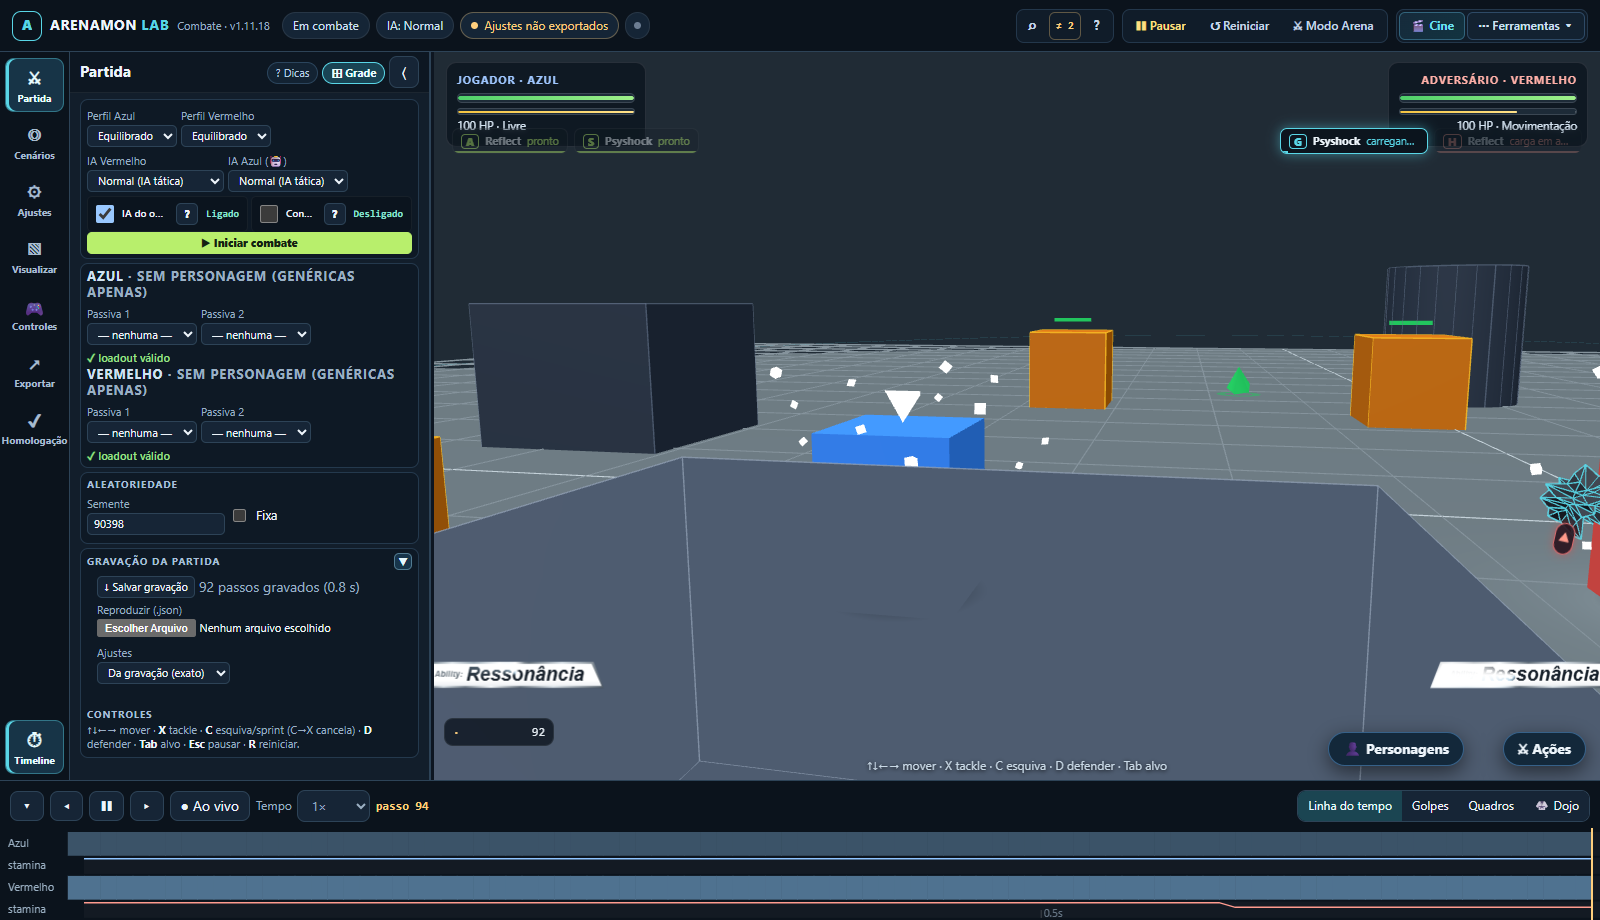
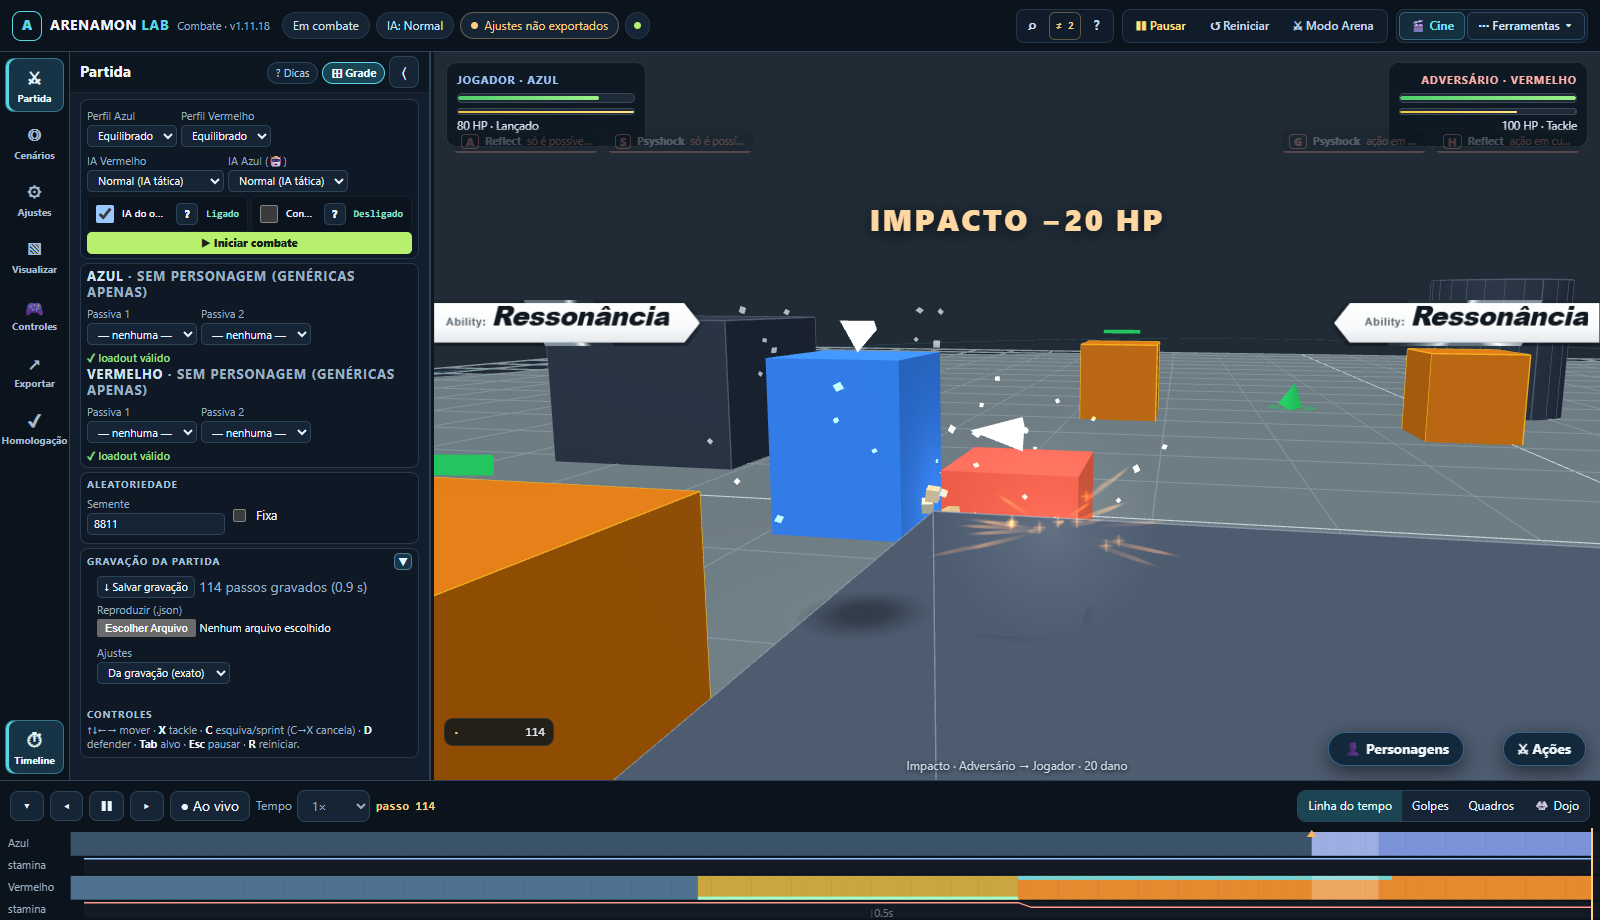
Unifica avisos visuais de habilidades passivas

diff --git a/prototypes/combat-lab/src/styles.css b/prototypes/combat-lab/src/styles.css
@@ -101,20 +101,20 @@ pre.diff{max-height:240px;overflow:auto;font-size:11px;background:#0b1118;paddin
 .chip-variant b{color:#8de4d1}.chip-variant button{min-height:20px!important;padding:0 5px!important;font-size:10px}
 .variants select{width:100%;font-size:11px;min-height:26px}.variants tr.playing td:first-child{color:var(--lime);font-weight:700}
 #vfx-flash{position:absolute;inset:0;pointer-events:none;opacity:0;mix-blend-mode:screen;z-index:3}
-.ability-banner{--side:-1;position:absolute;left:0;bottom:92px;width:min(170px,15%);height:26px;z-index:7;pointer-events:none;overflow:hidden;opacity:0;clip-path:polygon(0 0,94% 0,100% 100%,0 100%);filter:drop-shadow(0 2px 3px #0008);background:linear-gradient(110deg,#4d5964,#d8e0e6 12%,#737f8a 24%,#f8fbfd 38%,#65717c 54%,#dce4ea 72%,#4a5661);transform-origin:left center}
-.ability-banner.right{--side:1;left:auto;right:0;clip-path:polygon(6% 0,100% 0,100% 100%,0 100%);transform-origin:right center}
-.ability-banner-inner{position:absolute;inset:2px 2px 2px 0;display:flex;align-items:center;gap:3px;padding:0 8px 0 4px;background:linear-gradient(#fff,#fff 73%,#eceff2);clip-path:polygon(0 0,94% 0,100% 100%,0 100%);color:#17202a;font:italic 800 calc(13px * var(--ability-text-scale,1))/.95 Inter,Arial,sans-serif;white-space:nowrap}
-.ability-banner.right .ability-banner-inner{inset:2px 0 2px 2px;justify-content:flex-end;padding:0 4px 0 8px;clip-path:polygon(6% 0,100% 0,100% 100%,0 100%)}
-.ability-banner span{flex:none;color:#59636c;font-size:.42em;font-weight:650;letter-spacing:.01em}.ability-banner strong{font:inherit;min-width:0;overflow:hidden;text-overflow:ellipsis}
+.ability-banner{--side:-1;position:absolute;left:0;top:34%;width:clamp(210px,22vw,270px);height:46px;z-index:7;pointer-events:none;overflow:hidden;opacity:0;isolation:isolate;clip-path:polygon(0 0,94% 0,100% 50%,94% 100%,0 100%);filter:drop-shadow(0 5px 8px #0009);transform-origin:left center}
+.ability-banner.right{--side:1;left:auto;right:0;clip-path:polygon(6% 0,100% 0,100% 100%,6% 100%,0 50%);transform-origin:right center}
+.ability-banner::before{content:'';position:absolute;inset:0;z-index:0;background:linear-gradient(110deg,#26313a 0%,#8b99a3 10%,#f7fbff 18%,#66747f 29%,#dbe4ea 42%,#4b5862 55%,#fff 68%,#77858f 80%,#252f37 100%);background-size:240% 100%}
+.ability-banner-inner{position:absolute;z-index:1;inset:3px 4px 3px 0;display:flex;align-items:baseline;gap:5px;padding:0 16px 0 12px;background:linear-gradient(180deg,#fff 0%,#f8fafb 60%,#e5e9ec 100%);clip-path:polygon(0 0,94% 0,100% 50%,94% 100%,0 100%);color:#17202a;white-space:nowrap;box-shadow:inset 0 1px #fff,inset 0 -1px #aeb8bf}
+.ability-banner.right .ability-banner-inner{inset:3px 0 3px 4px;justify-content:flex-end;padding:0 12px 0 16px;clip-path:polygon(6% 0,100% 0,100% 100%,6% 100%,0 50%)}
+.ability-banner span{flex:none;color:#5a6670;font:750 11px/1 Inter,Arial,sans-serif;letter-spacing:.035em}.ability-banner strong{min-width:0;overflow:hidden;text-overflow:ellipsis;color:#101820;font:italic 850 calc(18px * var(--ability-text-scale,1))/1 Inter,Arial,sans-serif;letter-spacing:-.015em;text-shadow:0 1px #fff}
 .ability-banner.show{animation:ability-slide 2.3s cubic-bezier(.18,.86,.2,1) both}
 @keyframes ability-slide{0%{opacity:0;transform:translateX(calc(var(--side)*112%)) rotateY(calc(var(--side)*-34deg)) scale(.9)}12%{opacity:1;transform:translateX(calc(var(--side)*2%)) rotateY(calc(var(--side)*2deg)) scale(1.02)}20%,78%{opacity:1;transform:none}100%{opacity:0;transform:translateX(calc(var(--side)*112%)) rotateY(calc(var(--side)*-28deg)) scale(.94)}}
-.ability-banner::after{content:'';position:absolute;inset:0;z-index:2;pointer-events:none;mix-blend-mode:screen}
-.stage[data-ability-border=sweep] .ability-banner::after{background:linear-gradient(110deg,transparent 35%,#fff0 42%,#fff 49%,#bfe8ff 52%,transparent 61%);background-size:250% 100%;animation:ability-metal-sweep 1.2s linear infinite}
-.stage[data-ability-border=pulse] .ability-banner::after{background:linear-gradient(135deg,#9ec5dd,#fff,#6e8799);animation:ability-metal-pulse 1.35s ease-in-out infinite}
-.stage[data-ability-border=chase] .ability-banner::after{inset:-420% -20%;background:conic-gradient(from 0deg,transparent 0 225deg,#b8d6e9 275deg,#fff 310deg,transparent 350deg);animation:ability-metal-chase 2.4s linear infinite}
-.ability-banner.right::after{animation-direction:reverse!important}@keyframes ability-metal-sweep{from{background-position:180% 0}to{background-position:-80% 0}}@keyframes ability-metal-pulse{0%,100%{opacity:.06}50%{opacity:.8}}@keyframes ability-metal-chase{to{transform:rotate(360deg)}}
-@media(max-width:720px){.ability-banner{bottom:76px;width:min(140px,15%);height:25px}.ability-banner-inner{gap:2px;padding:0 6px 0 3px;font-size:calc(10.5px * var(--ability-text-scale,1))}.ability-banner.right .ability-banner-inner{padding:0 3px 0 6px}.ability-banner span{font-size:.38em}}
-@media(prefers-reduced-motion:reduce){.ability-banner.show{animation:ability-banner-fade 2.3s ease both}.ability-banner::after{animation:none!important}@keyframes ability-banner-fade{0%,100%{opacity:0}10%,82%{opacity:1}}}
+.stage[data-ability-border=sweep] .ability-banner::before{animation:ability-metal-sweep 1.25s linear infinite}
+.stage[data-ability-border=pulse] .ability-banner::before{animation:ability-metal-pulse 1.35s ease-in-out infinite}
+.stage[data-ability-border=chase] .ability-banner::before{background:conic-gradient(from 0deg at 50% 50%,#26313a 0 19%,#f8fdff 23%,#82929e 28% 48%,#fff 52%,#63727d 58% 78%,#dce9f0 82%,#26313a 88%);animation:ability-metal-chase 2.4s linear infinite}
+.ability-banner.right::before{animation-direction:reverse!important}@keyframes ability-metal-sweep{from{background-position:180% 0}to{background-position:-80% 0}}@keyframes ability-metal-pulse{0%,100%{filter:brightness(.72)}50%{filter:brightness(1.45)}}@keyframes ability-metal-chase{to{transform:rotate(360deg) scale(3)}}
+@media(max-width:720px){.ability-banner{width:clamp(190px,38vw,220px);height:42px}.ability-banner-inner{gap:4px;padding-left:10px}.ability-banner.right .ability-banner-inner{padding-right:10px}.ability-banner span{font-size:10px}.ability-banner strong{font-size:calc(16px * var(--ability-text-scale,1))}}
+@media(prefers-reduced-motion:reduce){.ability-banner.show{animation:ability-banner-fade 2.3s ease both}.ability-banner::before{animation:none!important}@keyframes ability-banner-fade{0%,100%{opacity:0}10%,82%{opacity:1}}}
 /* Barras do HUD atual: o medidor nativo do Chromium quase some com 5 px; agora com aparência própria. */
 .fighter meter{appearance:none;-webkit-appearance:none;height:10px;border-radius:5px;background:#1d2b38;border:1px solid #ffffff22;overflow:hidden}
 .fighter meter.sta{height:7px;margin-top:5px}
@@ -242,13 +242,6 @@ pre.diff{max-height:240px;overflow:auto;font-size:11px;background:#0b1118;paddin
 #passives-hud .mvp-row{position:static}
 .pvh-toast{position:absolute;left:50%;top:18%;transform:translateX(-50%);background:#ffffffee;color:#0b131c;font:800 15px/1.2 Inter,system-ui,sans-serif;padding:8px 18px;border-radius:999px;box-shadow:0 0 18px #ffffff88;animation:pvh-toast-in .25s ease}
 @keyframes pvh-toast-in{from{opacity:0;transform:translateX(-50%) translateY(-8px)}to{opacity:1;transform:translateX(-50%) translateY(0)}}
-#ability-notices{position:absolute;inset:0;z-index:6;pointer-events:none;overflow:hidden}
-#ability-notices .ability-notice{position:absolute;top:34%;background:#fffffff0;color:#0b131c;font:800 15px/1.2 Inter,system-ui,sans-serif;padding:9px 18px;border-radius:12px;box-shadow:0 2px 14px #0008;white-space:nowrap;transition:transform .35s cubic-bezier(.2,.8,.25,1),opacity .3s ease;opacity:0}
-#ability-notices .ability-notice.side-0{left:0;border-left:4px solid #4aa3ff;transform:translateX(-110%)}
-#ability-notices .ability-notice.side-1{right:0;border-right:4px solid #ff6b6b;transform:translateX(110%)}
-#ability-notices .ability-notice.in{transform:translateX(0);opacity:1}
-#ability-notices .ability-notice.side-0.out{transform:translateX(-110%);opacity:0}
-#ability-notices .ability-notice.side-1.out{transform:translateX(110%);opacity:0}
 .passives-panel .passives-slot h3{font:700 12.5px/1.3 Inter,system-ui,sans-serif;color:#cfe2f2;margin:8px 0 4px}
 .passives-panel .passives-slot p{margin:4px 0 0;font:600 11px/1.3 Inter,system-ui,sans-serif}
 .passives-panel p.ok{color:#9fe08a}

diff --git a/prototypes/combat-lab/src/main.js b/prototypes/combat-lab/src/main.js
@@ -37,8 +37,7 @@ import {MovesHud} from './ui/moves-hud.js';
 import {createPassivesPanel} from './ui/passives-panel.js';
 import {createQuickMenu} from './ui/menu-quick.js';
 import {PassivesHud} from './ui/passives-hud.js';
-import {PassiveVfx} from './view/passive-vfx.js';
-import {AbilityNotices} from './ui/ability-notices.js';
+import {PASSIVE_BY_ID} from './sim/passives.js';
 import {createPerfPanel} from './ui/perf-panel.js';
 import {createAiEvalPanel} from './ui/ai-eval-panel.js';
 import {createProjectFiles} from './ui/project-files.js';
@@ -111,7 +110,7 @@ async function triggerWarmup({force = false} = {}) {
     }
   }
 }
-function resetViewAndLogs() {view.reset(game.fighters[0]);recorder.clear();replay.clear();pushReplay();dock.invalidate();clock.reset();passiveVfx.clear();abilityNotices.clear();}
+function resetViewAndLogs() {view.reset(game.fighters[0]);recorder.clear();replay.clear();pushReplay();dock.invalidate();clock.reset();}
 function startMatch({playback = null} = {}) {
   if (ui.training) {training.end();}
   abortScenario();restorePlaybackValues();ui.playback = playback;
@@ -651,17 +650,14 @@ $('passives-card')?.append(passivesPanel.root);
 // Seleção Rápida do menu: dois blocos (personagem/moves/abilities + prévia 3D). Workspace anexado no boot.
 const quickMenu = createQuickMenu({$, game, ui, passivesPanel});
 const passivesHud = new PassivesHud($('passives-hud'));
-const passiveVfx = new PassiveVfx(view.scene);
-const abilityNotices = new AbilityNotices();
-/** Ativações do passo: som, notificação de HUD "Ability: NOME" (entrada pela esquerda do jogador / direita do
- * oponente) e VFX da variante configurada (A/B/C). */
+/** Ativações reais do passo: som, placa metálica "Ability: NOME" e sparkles brancos presos ao lutador. */
 function passiveFeedback(events) {
   for (const e of events || []) {
-    if (e.result !== 'passiveActivated') continue;
+    if (e.result !== 'passiveActivated' || e.attacker == null) continue;
     soundFx.playPassive(C.vfx?.passive?.variant ?? 0);
+    const kind = e.attacker === 1 ? C.display.passive.enemyAbility : C.display.passive.playerAbility;
+    view.passives.activate(e.attacker, kind, PASSIVE_BY_ID[e.passive]?.nome ?? e.passive);
   }
-  passiveVfx.onEvents(events, game.fighters);
-  abilityNotices.onEvents(events);
 }
 /** Avisos discretos dos Moves (M28.6): falha de execução com o motivo e a devolução da stamina. */
 const seenNotices = new WeakSet(), MOVE_FAIL = {semEspaco: 'sem espaço — stamina devolvida, sem recarga', limiteDeEntidades: 'limite de entidades do mundo — stamina devolvida', semCarga: 'sem carga', effectMissing: 'efeito não registrado'};
@@ -980,7 +976,7 @@ function frame(now) {
   const back = replay.length ? (replay.length - 1 - replay.cursor) : 0;
   hud.render(game, ui.fps, {locked: input.locked, paused: ui.paused && game.phase !== 'menu', replay: back ? `−${back} passos (${(back * C.test.step * 1000).toFixed(0)} ms) · ▶ retoma daqui` : 'último passo · , e . avançam/voltam', playerAI: !!C.extras.toggles.enablePlayerAI});
   movesHud.render(game);moveNotices();
-  passivesHud.render(game, C.extras.toggles.enablePassives !== 0);passiveVfx.update(live ? dt * clock.timeScale : 0);
+  passivesHud.render(game, C.extras.toggles.enablePassives !== 0);
   $('rp-readout').textContent = `passo ${game.tick}${back ? ` · −${(back * C.test.step).toFixed(2)} s` : ''}${clock.timeScale !== 1 ? ` · ${clock.timeScale}×` : ''}`;
   dock.render();updateDojoAdvantageBadge();hudProposals.render(game, live ? dt * clock.timeScale : 0);windowsOverlay.update();perfPanel.frame({frameMs: dt * 1000, simMs, steps});cinePanel?.updateBadge?.();updateOffscreenArrow(canvas.clientWidth, canvas.clientHeight);updateActionHintPill();if (game.phase === 'result' && !lastKoHandled) checkKoTrigger();
   if ((uiTimer += dt) > .1) {uiTimer = 0;renderLive();renderHistory();renderCharacterLive();renderRecStatus();visualPanel.live();diagnostics.live();perfPanel.live();}

diff --git a/prototypes/combat-lab/src/ui/tuning.js b/prototypes/combat-lab/src/ui/tuning.js
@@ -146,9 +146,9 @@ const same = (a, b) => Math.abs(a - b) <= 1e-9 * Math.max(1, Math.abs(a), Math.a
 export const EXTRA_SECTIONS = [['Smear de Membros', 'extras.visual.smear', null], ['Squash & Stretch do Tackle', 'extras.visual.squashStretch', null], ['Sprint (C mantido)', 'actions.sprint', null], ['VFX · geral', 'vfx.master', null], ['VFX 3D · geral', 'vfx.solid', null], ...SOLID_FAMILIES.map(f => [`VFX 3D · ${f.label}`, `vfx.${f.key}`, null]),
   ...VFX_TYPES.map(([type, label]) => [`VFX · ${label}`, `vfx.${type}`, null]), ['Tremor · geral', 'vfx.shakeMaster', null], ...SHAKE_EVENTS.map(([key, label]) => [`Tremor · ${label}`, `vfx.${key}`, null]),
   ['Teclas do vermelho (controle manual)', 'extras.bindings2', null], ['VFX · Laser da Arena (BeamRenderer)', 'vfx.laser', null], ['Sombras', 'display.shadow', null], ['HUD', 'display.hud', null], ['Habilidades passivas', 'display.passive', null], ['Altura visual', 'display.grounding', null], ['Indicador da janela C → X', 'display.cancelRing', null], ['Animação: transições', 'display.animation', null], ['Diagnóstico de comandos', 'display.diagnostics', null], ['Janelas de combate', 'display.windows', null], ['Medidor de desempenho', 'display.perf', null],
-  // Passivas (catálogo experimental, §29): uma seção por passiva + VFX de ativação (A/B/C).
+  // Passivas (catálogo experimental, §29): uma seção por passiva. A apresentação unificada fica em Visualizar.
   ...PASSIVES.map(p => [`Passivas · ${p.nome}${p.species ? ' (' + p.species + ')' : ''}`, `passivas.${p.id}`, null]),
-  ['Passivas · gerais (detecção)', 'passivas.globals', null], ['VFX · Passivas (ativação A/B/C)', 'vfx.passive', null], ['VFX · three.quarks (experimental)', 'vfx.quarks', null]];
+  ['Passivas · gerais (detecção)', 'passivas.globals', null], ['VFX · three.quarks (experimental)', 'vfx.quarks', null]];
 /** Parâmetros mostrados em outras abas (sem duplicar controles no Ajustes). */
 const ELSEWHERE = new Set(['extras.toggles.enableEnemyAI', 'extras.toggles.enemyManual', 'extras.visual.shadowMin', 'extras.visual.shadowHeightFade']);
 export function createTuning({apply}) {

diff --git a/prototypes/combat-lab/src/view/passive-abilities.js b/prototypes/combat-lab/src/view/passive-abilities.js
@@ -56,11 +56,10 @@ class FighterPassive {
 }
 
 export class PassiveAbilitySystem {
-  constructor(scene, {notify = () => {}} = {}) {this.scene = scene;this.notify = notify;this.fighters = [new FighterPassive(scene, 0), new FighterPassive(scene, 1)];this.started = false;}
-  reset() {this.started = false;for (const f of this.fighters) f.reset();}
-  activate(id, kind) {const fx = this.fighters[id];if (!fx || !C.display.passive.enabled) return;fx.activate(kind);this.notify(id, PASSIVE_ABILITIES[fx.kind].name);}
+  constructor(scene, {notify = () => {}} = {}) {this.scene = scene;this.notify = notify;this.fighters = [new FighterPassive(scene, 0), new FighterPassive(scene, 1)];}
+  reset() {for (const f of this.fighters) f.reset();}
+  activate(id, kind, name = null) {const fx = this.fighters[id];if (!fx || !C.display.passive.enabled) return;fx.activate(kind);this.notify(id, name || PASSIVE_ABILITIES[fx.kind].name);}
   update(fighters, dt, {characters = [], visible = true} = {}) {
-    if (!this.started && C.display.passive.enabled) {this.started = true;this.activate(0, C.display.passive.playerAbility);this.activate(1, C.display.passive.enemyAbility);}
     for (const f of fighters) this.fighters[f.id]?.update(f, characters[f.id], dt, visible && !!C.display.passive.enabled);
   }
   dispose() {for (const f of this.fighters) f.dispose(this.scene);}

diff --git a/prototypes/combat-lab/src/sim/config.js b/prototypes/combat-lab/src/sim/config.js
@@ -216,8 +216,7 @@ export function vfxDefaults() {
     solidReflect: {...solidFam(), color: 0x73caff},
     shakeMaster: {enabled: 1},
     shakeGuard: shake(.05, .16, 0), shakeHit: shake(.12, .28, 0), shakeGround: shake(.09, .3, 1), shakePerfect: shake(.1, .3, 2), shakeClash: shake(.18, .42, 1),
-    // VFX de ativação de passivas (§16): 0,60 s, círculos brancos 3D + sparkles; variant 0/1/2 = A/B/C
-    // (Orbital Halo / Celestial Intersections / Luminous Resonance). Só aparência; não altera regras nem cooldowns.
+    // Compatibilidade de presets antigos de VFX de passivas. A apresentação ativa usa display.passive.
     passive: {enabled: 1, variant: 0, intensity: 1, size: 1, opacity: 1, duration: 1, sparkles: 1},
     // Camada experimental three.quarks (Fase 2 da integração open source): efeitos A (carga),
     // B (impacto), C (pouso) e footstool por partículas GPU, A/B comparativo com o legado.

diff --git a/prototypes/combat-lab/src/template.html b/prototypes/combat-lab/src/template.html
@@ -329,7 +329,6 @@
     <div class="fighter enemy"><strong>ADVERSÁRIO · VERMELHO</strong><meter id="hp1" min="0" max="1" value="1" aria-label="Vida adversário"></meter><meter id="stamina1" class="sta" min="0" max="1" value="1" aria-label="Stamina adversário"></meter><span id="state1"></span><div id="stages1" class="stages-indicator"></div></div>
    </header>
    <div id="impact-notice" aria-live="polite" hidden></div>
-   <div id="ability-notices" aria-live="polite"></div>
    <div id="dojo-advantage-badge" hidden aria-live="polite"></div>
    <div class="zen-badge"><kbd>F2</kbd> Modo Arena Ativo · Pressione F2 para voltar ao Lab</div>
    <div id="ab-badge" hidden aria-live="polite"></div>

diff --git a/docs/VFX_HABILIDADES_PASSIVAS.md b/docs/VFX_HABILIDADES_PASSIVAS.md
@@ -1,23 +1,24 @@
 # VFX e avisos das habilidades passivas
 
-O jogo principal exibe avisos laterais no formato `Ability: NOME` quando a luta começa ou quando uma prévia é acionada. Os nomes visuais são palavras únicas: **Órbita**, **Prisma** e **Ressonância**.
+O jogo principal exibe uma única placa lateral no formato `Ability: NOME` quando uma habilidade passiva realmente é ativada. O nome vem da passiva equipada, como **Regenerator**, **Stamina** ou **Rough Skin**. Os nomes **Órbita**, **Prisma** e **Ressonância** permanecem somente nos botões de prévia visual.
 
 ## Comportamento no jogo
 
 - A notificação do jogador entra pela extrema esquerda; a do adversário entra pela extrema direita.
-- A placa tem interior branco, moldura metálica e três animações selecionáveis: **Reflexo**, **Pulso** e **Luz no contorno**.
-- Cada placa mede no máximo **170 × 26 px** e nunca passa de **15% da largura da arena** em seu lado.
-- O nome usa 15,6 px na configuração padrão e pode ser ajustado de 80% a 160% no painel **Visualizar → Habilidades passivas**.
+- A placa fica na mesma altura do aviso original, a 34% do topo da arena.
+- A placa tem interior branco em relevo, moldura metálica de 3 px, sombra e três animações selecionáveis: **Reflexo**, **Pulso** e **Luz no contorno**.
+- A largura responsiva varia de **210 a 270 px** e a altura é **46 px**.
+- O prefixo `Ability:` usa 11 px e o nome usa 18 px na configuração padrão. O nome pode ser ajustado de 80% a 160% no painel **Visualizar → Habilidades passivas**.
 - Todas as habilidades usam o mesmo efeito: sparkles brancos ao redor do lutador por **0,5 s**.
 - Os sparkles usam a posição, a altura visual e a orientação atuais de cada lutador. Eles continuam presos ao personagem enquanto ele se move e quando a simulação está pausada.
 - As malhas são criadas uma vez e reutilizadas nas ativações seguintes.
 
-Os três efeitos e seus nomes são uma apresentação visual. Esta entrega não define bônus, cooldowns ou regras de combate para as passivas documentadas em `PASSIVAS_DECISOES.md`.
+Os três nomes de prévia alteram somente a demonstração manual. Durante a luta, a placa e os sparkles respondem aos eventos reais sem alterar bônus, cooldowns ou regras de combate documentados em `PASSIVAS_DECISOES.md`.
 
 ## Como conferir
 
 1. Abra `JOGAR_ARENAMON.html`.
-2. Inicie um combate para ver os dois avisos.
+2. Inicie um combate e ative uma passiva para ver o nome real na lateral do respectivo lutador.
 3. Abra **Visualizar → Habilidades passivas**.
 4. Escolha as habilidades, a animação da moldura e o tamanho do texto.
 5. Use os botões de prévia para repetir qualquer efeito durante a partida.
